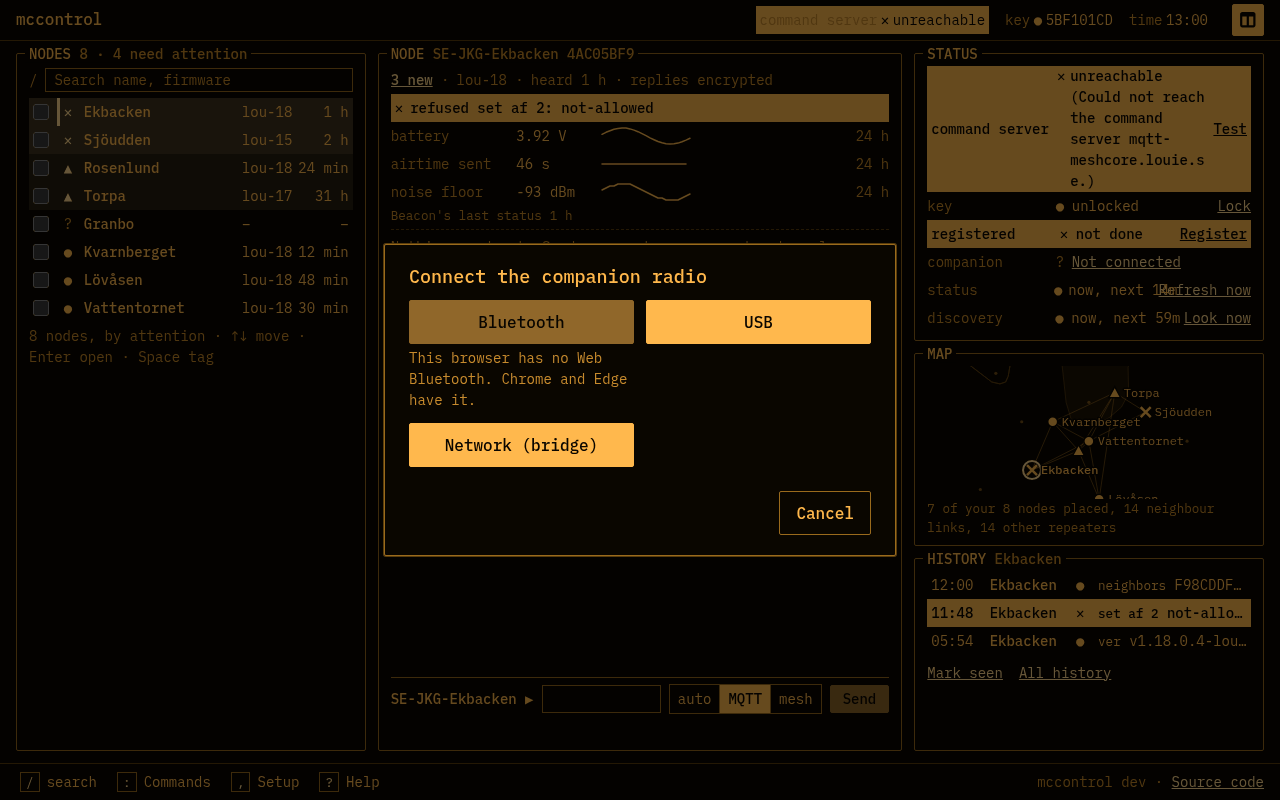
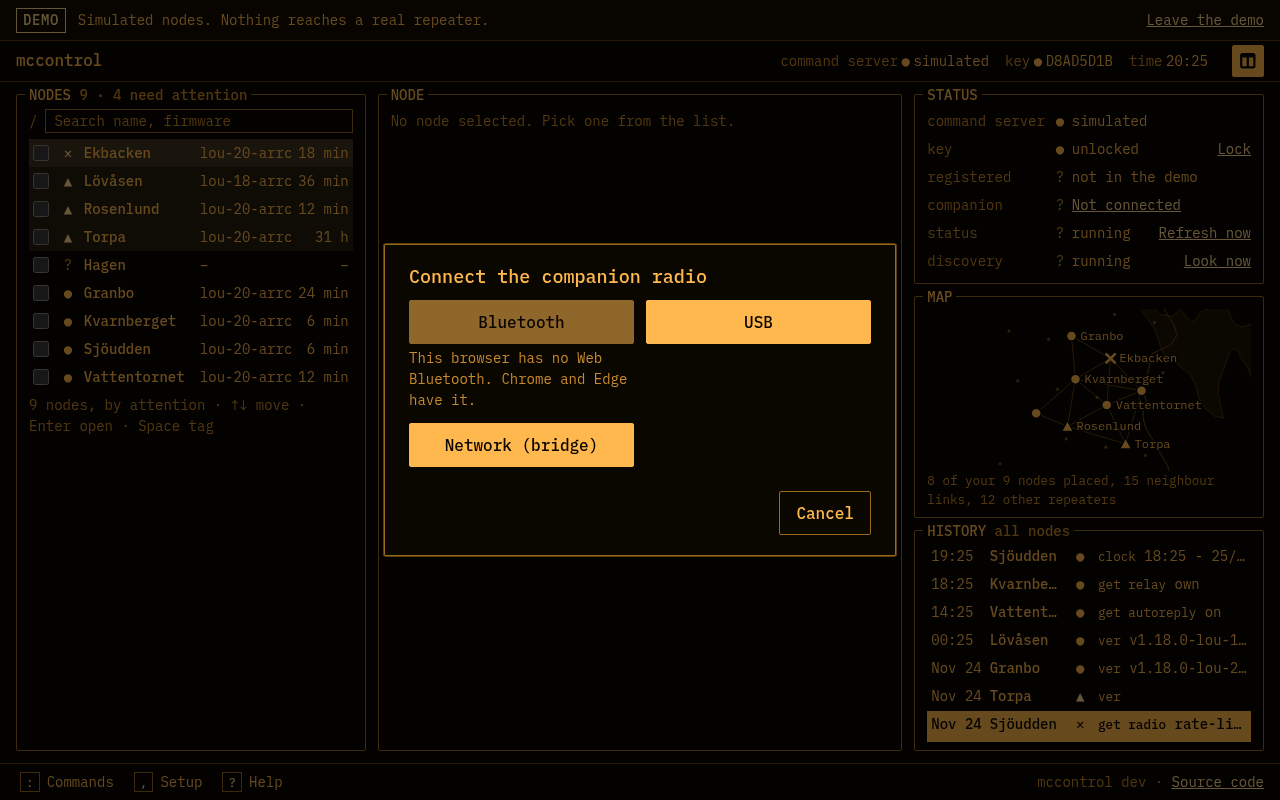
README and pictures for lou-20: what the tool does, both layouts, from the demo
- "What you can do with it" up front; the relay, the status rules, updating
  a node and adding a node without Wi-Fi as they work now.
- 27 pictures made again from the demo's lou-20 fleet (readme-shots.mjs now
  drives ?demo=1): both layouts, a node through a relay, the key replacement,
  the firmware tab, the add-node form.
- The retro node list shows "lou-20-arrc" in its narrow column; the whole
  short version is its tooltip.

diff --git a/web/ui/tiles/nodes.js b/web/ui/tiles/nodes.js
@@ -84,7 +84,9 @@ function fill(ctx, svc, body) {
       'aria-current': d.node === selected ? 'true' : null },
     stateMark(ctx, status.state),
     h('span', { class: 'node-name', title: name }, short),
-    h('span', { class: 'node-ver' }, d.ver ? shortVersion(svc.rules, d.ver) : '–'),
+    // The column is narrow: the revision and what the image carries ("lou-20-arrc"); the whole short
+    // version, with "-observer", is the cell's tooltip and the NODE tile's first line.
+    h('span', { class: 'node-ver', title: d.ver ? shortVersion(svc.rules, d.ver) : null }, d.ver ? shortVersion(svc.rules, d.ver).replace(/-observer$/, '') : '–'),
     h('span', { class: 'node-heard' }, heard ? age(ctx, heard, now) : '–'));
     button.addEventListener('click', () => { focusId = d.node; ctx.board.select(ctx.board.selected() === d.node ? null : d.node); });
     return h('li', { class: `node-item${tagged ? ' is-tagged' : ''}`, 'data-state': status.state },

diff --git a/web/styles/tiles.css b/web/styles/tiles.css
@@ -42,7 +42,7 @@
 /* glyph, name, firmware, heard: one line, no status text (W-28c; the reason is NODE's), no region
    (W-33g: a node's region is in its details only). No battery column (W-26f). The glyph's word is
    read aloud, not shown. The name takes what is left; the firmware drops under 20em. */
-.node-row { grid-template-columns: 2ch minmax(4ch, 1fr) 6ch 6ch; column-gap: 6px; }
+.node-row { grid-template-columns: 2ch minmax(4ch, 1fr) 11ch 6ch; column-gap: 6px; }
 .node-row .mark { display: contents; }
 .node-row .mark .glyph { grid-column: 1; }
 .node-row .mark-word { position: absolute; width: 1px; height: 1px; overflow: hidden; clip-path: inset(50%); white-space: nowrap; }

diff --git a/README.md b/README.md
@@ -14,6 +14,28 @@ identity or radio; the command key changes only by `rekey`, signed by the key in
 
 ![The standard layout: the node list and one node's overview](docs/screenshots/standard-dark-1600.png)
 
+## What you can do with it
+
+- **See your repeaters.** The page finds every lou-20 node of yours that has Wi-Fi by itself, from a
+  sealed message only your key opens, and shows each with its firmware, battery, uptime, neighbours,
+  place on the map and whether it needs attention.
+- **Send it a command and read the answer.** Anything the repeater's own console answers, except
+  what must never be done from afar (identity, radio, erase). The command box suggests commands and
+  says before sending what the node will refuse. A bare code in an answer is explained
+  (`get path.hash.mode` → `2 · 3 bytes per hop…`).
+- **Reach a repeater that has no Wi-Fi.** Through one of your own Wi-Fi repeaters as a relay, or
+  through your companion radio. You pick the relay and the route; a flood asks first.
+- **Mend one that fell off MQTT.** Over the radio you may set its Wi-Fi, switch its command
+  connection back on and set a clock that fell behind.
+- **Update its firmware.** "Update now" asks the node whether an update fits and then lets it
+  fetch it (Wi-Fi nodes, lou-19 and later).
+- **Replace your key on every node**, from the browser, one node at a time.
+- **Try all of it without a node or a key**, on an invented fleet: the demo below.
+
+| A node without Wi-Fi, through a relay | Replacing the key on the nodes |
+|---|---|
+| [![](docs/screenshots/standard-dark-relay.png)](docs/screenshots/standard-dark-relay.png) | [![](docs/screenshots/standard-dark-rekey.png)](docs/screenshots/standard-dark-rekey.png) |
+
 ## Try it without a node or a key
 
 [mccontrol.meshcoresverige.se/?demo=1](https://mccontrol.meshcoresverige.se/?demo=1) opens the same page
@@ -29,18 +51,22 @@ about nodes. A banner says so on every screen, and "Leave the demo" goes back to
 **Standard** (the default): a list of your nodes and one node's detail, in dark or light, with a
 colour-blind mode.
 
-| Light | Commands | History | Phone |
+| All nodes | Light | Commands | History |
 |---|---|---|---|
-| [![](docs/screenshots/standard-light-1600.png)](docs/screenshots/standard-light-1600.png) | [![](docs/screenshots/standard-dark-1280-commands.png)](docs/screenshots/standard-dark-1280-commands.png) | [![](docs/screenshots/standard-dark-1280-history.png)](docs/screenshots/standard-dark-1280-history.png) | [![](docs/screenshots/standard-dark-phone.png)](docs/screenshots/standard-dark-phone.png) |
+| [![](docs/screenshots/standard-dark-overview.png)](docs/screenshots/standard-dark-overview.png) | [![](docs/screenshots/standard-light-1600.png)](docs/screenshots/standard-light-1600.png) | [![](docs/screenshots/standard-dark-1280-commands.png)](docs/screenshots/standard-dark-1280-commands.png) | [![](docs/screenshots/standard-dark-1280-history.png)](docs/screenshots/standard-dark-1280-history.png) |
+
+| Firmware and updates | Add a node by its key | Neighbours | Phone |
+|---|---|---|---|
+| [![](docs/screenshots/standard-dark-firmware.png)](docs/screenshots/standard-dark-firmware.png) | [![](docs/screenshots/standard-dark-add-node.png)](docs/screenshots/standard-dark-add-node.png) | [![](docs/screenshots/standard-dark-neighbours.png)](docs/screenshots/standard-dark-neighbours.png) | [![](docs/screenshots/standard-dark-phone.png)](docs/screenshots/standard-dark-phone.png) |
 
 **Retro**: a board of tiles (NODES, NODE, STATUS, MAP, HISTORY) with a command palette, in
 amber, green, dark or light. Settings switch between the two.
 
 ![The retro board in amber](docs/screenshots/retro-amber-1600.png)
 
-| Palette | Companion | Result | Node details | Neighbours |
+| Through a relay | Palette | Companion | Result | Node details |
 |---|---|---|---|---|
-| [![](docs/screenshots/retro-palette.png)](docs/screenshots/retro-palette.png) | [![](docs/screenshots/retro-companion-chooser.png)](docs/screenshots/retro-companion-chooser.png) | [![](docs/screenshots/retro-result.png)](docs/screenshots/retro-result.png) | [![](docs/screenshots/retro-node-details.png)](docs/screenshots/retro-node-details.png) | [![](docs/screenshots/standard-dark-neighbours.png)](docs/screenshots/standard-dark-neighbours.png) |
+| [![](docs/screenshots/retro-relay.png)](docs/screenshots/retro-relay.png) | [![](docs/screenshots/retro-palette.png)](docs/screenshots/retro-palette.png) | [![](docs/screenshots/retro-companion-chooser.png)](docs/screenshots/retro-companion-chooser.png) | [![](docs/screenshots/retro-result.png)](docs/screenshots/retro-result.png) | [![](docs/screenshots/retro-node-details.png)](docs/screenshots/retro-node-details.png) |
 
 Setup: [key](docs/screenshots/retro-setup-key.png) · [node](docs/screenshots/retro-setup-node.png) ·
 [command server](docs/screenshots/retro-setup-connections.png) · [groups](docs/screenshots/retro-setup-groups.png) ·
@@ -48,8 +74,9 @@ Setup: [key](docs/screenshots/retro-setup-key.png) · [node](docs/screenshots/re
 [display](docs/screenshots/retro-setup-display.png). Green: [board](docs/screenshots/retro-green-1600.png),
 phone: [retro](docs/screenshots/retro-phone.png).
 
-The nodes, names and key in the pictures are invented. `node web/test/smoke/readme-shots.mjs`
-makes them again from the code as it is (headless Chrome, the smoke test's fake fleet).
+The pictures are of the demo: its nodes, names and key are invented, and its banner says so in
+each. `node web/test/smoke/readme-shots.mjs` makes them again from the code as it is (headless
+Chrome).
 
 ## What changed with lou-20
 
@@ -104,11 +131,15 @@ mcc3; mccontrol-spec's wire format has the bytes):
 
 From lou-20 the `rc` and `arrc` images for stock MeshCore boards take commands over the mesh
 alone. Put the key on the node as on any other (`set cmd.pubkey`, `set cmd on`; `get cmd` then
-says `mesh only`). The page never finds such a node by itself. Add it under Add nodes, "Add a
-node by its public key", or let "Mesh-only nodes" look in your companion's contacts and on
-Beacon for candidates and check one with a signed `ver`. Send to it through a relay or through
-your companion; the node's settings have "Mesh only" for a node whose version is not known yet.
-Help's "meshonly" topic has the steps.
+says `mesh only`). The page never finds such a node by itself. Add it under "Find more nodes",
+"Add a node by its public key": the form asks whether the node has Wi-Fi and starts on "No", so
+the node opens on a road that reaches it. Or let "Mesh-only nodes" look in your companion's
+contacts and on Beacon for candidates and check one with a signed `ver`. Send to it through a
+relay or through your companion. Help's "meshonly" topic has the steps.
+
+A stock MeshCore repeater on an nRF52 board can be brought there without a cable: `start ota`
+from an admin login in the MeshCore app, the lou-20 `.zip` over Bluetooth, then the key from the
+same login (`set cmd.pubkey`, `set cmd on`). Done this way on a RAK 4631 on a roof, 2026-11-25.
 
 ## Through a relay
 
@@ -122,21 +153,49 @@ hold the same command key as the node and be in radio reach of it.
   answer is answered `busy`, or dropped unanswered if the two arrive together; the first goes through. Airtime: 5 % of 15 minutes (about 26 commands),
   then 1 % of the next 15 (about 5).
 
-- **You choose the relay and the route.** Direct neighbour (one transmission each way, no
-  hops), direct along a path an earlier answer taught, or a flood. "Check neighbours" asks a
-  relay over MQTT which nodes it hears, which costs no airtime, and marks the relay that hears
-  the node directly. "Read budget" asks what is left of the relay's airtime.
+- **You choose the relay and the route**, in two lists beside the command box. The relays that
+  have heard the node come first, the strongest signal at the top and shown ("hears the node
+  directly, 5.5 dB"); an answer to a direct send records it. The routes: direct neighbour (one
+  transmission each way, no hops), direct along a path an earlier answer taught, or a flood. A
+  direct send through a relay that was never checked says "not checked that it hears the node".
+  "Check the relay…" asks a relay over MQTT which nodes it hears, which costs no airtime, and
+  what is left of its airtime.
 - **A flood asks first, every time.** It costs every node in reach airtime, and a relay allows
   one a minute for 15 minutes, then one in five minutes, and 100 a day.
-- **Auto is careful.** It takes a relay only for a node without MQTT or silent on it for the 15
-  minutes, only when no companion is connected, and only by a way that is no flood. A group,
-  several nodes, a county, a set and the automatic work never go through a relay.
+- **Auto shows what it takes.** While "auto" is chosen, the road it will use has a thick
+  border. For a node without MQTT, or silent on it for the 15 minutes, with no companion
+  connected, that is the relay and route the two lists show; a flood still asks each time. A
+  group, several nodes, a county, a set and the automatic work never go through a relay.
+- **It mends a node that MQTT cannot reach.** Over the radio, and only there, a node takes
+  `set wifi.ssid`, `set wifi.pwd`, `set cmd on` and `time <epoch>`. A node whose clock fell a day
+  behind is refused by the command server ("token expired") and looks dead on MQTT while its radio
+  is fine: `time` through a relay brought one back on 2026-11-25. A node opens its radio road for
+  commands only after 15 minutes without the command server (`cmd.mesh auto`); before that it
+  answers `mesh-closed`.
 - **No answer is not a refusal.** The relay waits two minutes; the node may have run the
   command. A node answers on an airtime budget of its own (5 % of 15 minutes, then 1 %), and a
   command over it gets no answer at all: wait a few minutes; `get cmd` counts it as refused. A
   flooded command is answered after 15 to 30 s, and that answer teaches the way back. History keeps the relay, the route and how well the relay heard the answer.
 - **The relay cannot read it.** The request is sealed and signed for the node, the answer sealed
   to you. A node's details have the switch (`set relay off|own`); relaying is on by default.
+
+## What the status means
+
+A node is **ok** when it has been heard and nothing is wrong, **not known** while nothing has
+been heard from it (also after a command that got no answer), and **needs attention** when it
+was not heard for the set hours (24), its battery is low, its firmware is behind, or its last
+command got no answer. A refused or forged answer is an alert. A command with no answer never
+makes a node "ok".
+
+## Updating a node's firmware
+
+Beside "update available": **Update now**, when the node can take the update over remote
+control (a Wi-Fi node on lou-19 or later). It sends `ota check`, and `ota update` only if the
+node itself answers that an update fits, then asks `ver` until the new version reports in. A
+node on lou-18 or older shows "not over remote control: how to update" there: its firmware
+refuses `ota update` from afar. It can still be told `set ota.auto on`, after which it updates
+itself within about an hour (never between 00 and 06); a lou-16 node was brought to lou-20 that
+way on 2026-11-25. A node without Wi-Fi is updated by cable or Bluetooth.
 
 ## Install it as an app
 
